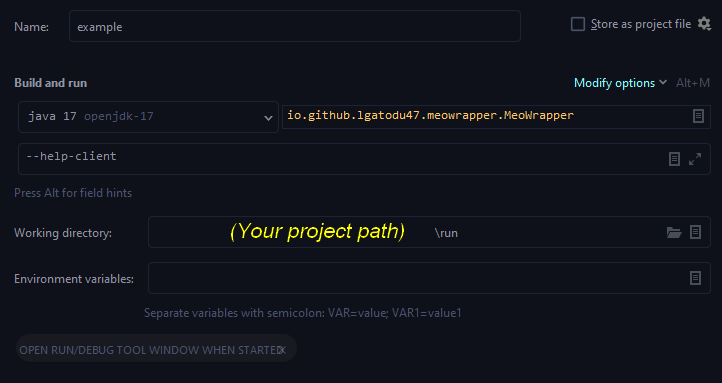
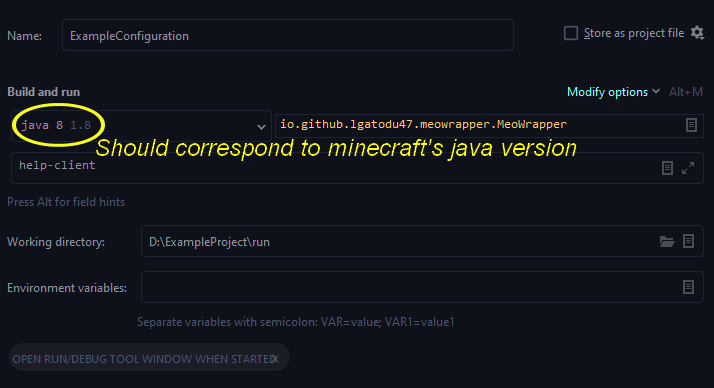
1.2.0: Java 1.8 compatibility - There is now an alert when the program is running on a lower Java version than Minecraft's required. - Now converting specified paths to absolute paths (caused issues).

diff --git a/src/main/java/io/github/lgatodu47/meowrapper/RuntimeEnvironment.java b/src/main/java/io/github/lgatodu47/meowrapper/RuntimeEnvironment.java
@@ -18,7 +18,7 @@ import static io.github.lgatodu47.meowrapper.Logger.*;
  * This class is separated in 3 inner subclasses: Client, Data and Server<br>
  * Each subclass corresponds to an available running environment for Minecraft.
  */
-public abstract sealed class RuntimeEnvironment {
+public abstract class RuntimeEnvironment {
     // Marked them unused so IntelliJ doesn't bother
     @SuppressWarnings("unused")
     public static final RuntimeEnvironment CLIENT = new Client();
@@ -130,6 +130,8 @@ public abstract sealed class RuntimeEnvironment {
 
     /**
      * Concat two arrays of Strings into one.
+     * @param a The first array.
+     * @param b The second array.
      * @return An array of length {@code a.length + b.length} containing all the elements in {@code a} and in {@code b}.
      */
     protected static String[] concat(String[] a, String[] b) {
@@ -177,8 +179,12 @@ public abstract sealed class RuntimeEnvironment {
         public boolean setup(Arguments args, String version) {
             if(!super.setup(args, version)) return false;
 
-            Path assetsDir = FileManager.gatherAssets(args.getPath("assetsDir", mcDir.resolve("assets")), versionJson);
-            args.get("mainClass").or(() -> Optional.ofNullable(versionJson.mainClass)).ifPresent(name -> mainClassName = name);
+            Path assetsDir = FileManager.gatherAssets(args.getPath("assetsDir", mcDir.resolve("assets")).toAbsolutePath(), versionJson);
+            Optional<String> main = args.get("mainClass");
+            if(!main.isPresent()) {
+                main = Optional.ofNullable(versionJson.mainClass);
+            }
+            main.ifPresent(name -> mainClassName = name);
             arguments = concat(args.get("args").map(s -> s.split(" ")).orElse(new String[0]), createClientRunArgs(runDir, assetsDir, versionJson.assets, version, args));
 
             return true;
@@ -196,8 +202,8 @@ public abstract sealed class RuntimeEnvironment {
 
         private static String[] createClientRunArgs(Path runDir, Path assetsDir, String assetIndex, String version, Arguments args) {
             Map<String, String> map = new LinkedHashMap<>();
-            map.put("gameDir", runDir.toString());
-            map.put("assetsDir", assetsDir.toString());
+            map.put("gameDir", runDir.toAbsolutePath().toString());
+            map.put("assetsDir", assetsDir.toAbsolutePath().toString());
             map.put("assetIndex", assetIndex);
             map.put("version", version);
             map.put("accessToken", args.get("accessToken").orElse("0"));
@@ -258,7 +264,7 @@ public abstract sealed class RuntimeEnvironment {
             for(String generator : generators) {
                 map.put(generator, null);
             }
-            map.put("output", outputDir.toString());
+            map.put("output", outputDir.toAbsolutePath().toString());
             args.get("inputDirs").ifPresent(inputDirs -> map.put("input", inputDirs));
             return new Arguments(map).toArgs();
         }
@@ -306,7 +312,7 @@ public abstract sealed class RuntimeEnvironment {
             } else {
                 Version versionJson;
                 Optional<VersionManifest> manifestOpt = FileManager.getVersionManifestData();
-                if(manifestOpt.isEmpty()) {
+                if(!manifestOpt.isPresent()) {
                     return false;
                 } else {
                     try {
@@ -315,6 +321,12 @@ public abstract sealed class RuntimeEnvironment {
                         error("Error when downloading version Json file!");
                         e.printStackTrace();
                         return false;
+                    }
+                }
+
+                if(versionJson.javaVersion != null && javaPath == null) {
+                    if(Utils.getJavaVersion() < versionJson.javaVersion.majorVersion) {
+                        warn("According to the version json, you are not running on a recent-enough java major version. The game may crash! (Current major java version: '%s', required: '%s')", Utils.getJavaVersion(), versionJson.javaVersion.majorVersion);
                     }
                 }
 
@@ -380,7 +392,7 @@ public abstract sealed class RuntimeEnvironment {
     /**
      * An implementation of RuntimeEnvironment for the environments using the client jar.
      */
-    private static non-sealed abstract class ClientJarEnvironment extends RuntimeEnvironment {
+    private static abstract class ClientJarEnvironment extends RuntimeEnvironment {
         protected Path javaPath;
         protected Path mcDir;
         protected Path runDir;
@@ -413,6 +425,12 @@ public abstract sealed class RuntimeEnvironment {
                 error("Error when downloading version Json file!");
                 e.printStackTrace();
                 return false;
+            }
+
+            if(versionJson.javaVersion != null && javaPath == null) {
+                if(Utils.getJavaVersion() < versionJson.javaVersion.majorVersion) {
+                    warn("According to the version json, you are not running on a recent-enough java major version. The game may crash! (Current major java version: '%s', required: '%s')", Utils.getJavaVersion(), versionJson.javaVersion.majorVersion);
+                }
             }
 
             mcJar = FileManager.downloadVersionJar(args.getPath("mcJar", mcDir.resolve("versions/" + version + "/" + version + ".jar")), versionJson, false);

diff --git a/src/main/java/io/github/lgatodu47/meowrapper/MeoWrapper.java b/src/main/java/io/github/lgatodu47/meowrapper/MeoWrapper.java
@@ -14,7 +14,7 @@ public class MeoWrapper {
 
     private void start(Arguments args) {
         Optional<RuntimeEnvironment> optEnvironment = args.get("environment").flatMap(RuntimeEnvironment::byName);
-        if(optEnvironment.isEmpty()) {
+        if(!optEnvironment.isPresent()) {
             error("Missing or invalid 'environment' argument! Type 'help' for more info about the needed arguments");
             return;
         }
@@ -22,7 +22,7 @@ public class MeoWrapper {
         RuntimeEnvironment env = optEnvironment.get();
 
         Optional<String> optVersion = args.get("version");
-        if(optVersion.isEmpty()) {
+        if(!optVersion.isPresent()) {
             error("Missing 'version' argument! Type 'help-<%s>' to have the list of arguments for the current environment", env.getName().toLowerCase(Locale.ROOT));
             return;
         }
@@ -38,16 +38,23 @@ public class MeoWrapper {
     private void launch(RuntimeEnvironment env) {
         List<String> commands = new ArrayList<>();
         // Java executable
-        commands.add(env.getJavaPath().or(ProcessHandle.current().info()::command).orElseGet(() -> {
+        Optional<String> javaPath = env.getJavaPath();
+        if(!javaPath.isPresent()) {
+            javaPath = Utils.getJavaExecutable();
+        }
+        commands.add(javaPath.orElseGet(() -> {
             error("Could not find the current running java executable: setting process executable to 'java'");
             return "java";
         }));
         // Classpath
         debug("Listing classpath...");
-        env.getClassPath().stream().map(File::getAbsolutePath).peek(Logger::debug).reduce((path, path2) -> path + ";" + path2).ifPresentOrElse((path) -> {
+        Optional<String> classpath = env.getClassPath().stream().map(File::getAbsolutePath).peek(Logger::debug).reduce((path, path2) -> path + ";" + path2);
+        if(classpath.isPresent()) {
             commands.add("-cp");
-            commands.add(path);
-        }, () -> error("Classpath is absent!"));
+            commands.add(classpath.get());
+        } else {
+            error("Classpath is absent!");
+        }
         // VM options
         commands.addAll(env.getVMOptions());
         commands.add(env.getMainClassName());
@@ -64,7 +71,8 @@ public class MeoWrapper {
             return;
         }
 
-        debug("Process with pid '%d' started.", process.pid());
+        Utils.getProcessId(process).ifPresent(pid -> debug("Process with pid '%d' started.", pid));
+        nl();
 
         try {
             debug("Process ended with exit code: '%d'", process.waitFor());
@@ -98,8 +106,14 @@ public class MeoWrapper {
     private static boolean logHelp(String firstArg) {
         if(firstArg.contains("help") || "?".equals(firstArg)) {
             if(firstArg.contains("help-")) {
-                String envString = firstArg.substring(firstArg.indexOf('-') + 1);
-                RuntimeEnvironment.byName(envString).ifPresentOrElse(RuntimeEnvironment::logArgumentsList, () -> error("Could not find environment with name '%s'!", envString));
+                String envString = firstArg.substring(firstArg.lastIndexOf('-') + 1);
+                Optional<RuntimeEnvironment> env = RuntimeEnvironment.byName(envString);
+
+                if(env.isPresent()) {
+                    env.get().logArgumentsList();
+                } else {
+                    error("Could not find environment with name '%s'!", envString);
+                }
             } else {
                 info("Welcome in MeoWrapper! To run the program, you will need to specify arguments depending on the running environment you want. There are currently 3 run environments: Client, Server and Data. To learn more about the required arguments of the environment of your choice, use the argument 'help-<env>'!");
             }

diff --git a/src/main/java/io/github/lgatodu47/meowrapper/FileManager.java b/src/main/java/io/github/lgatodu47/meowrapper/FileManager.java
@@ -300,12 +300,12 @@ public class FileManager {
             Files.copy(connection.getInputStream(), target, StandardCopyOption.REPLACE_EXISTING);
 
             if (sha1 != null) {
-                String localSha1 = sha1(new FileInputStream(target.toFile()));
+                String localSha1 = sha1(Files.newInputStream(target));
                 if (sha1.equals(localSha1)) {
-                    debug("Successfully downloaded '%s'!", target.toFile().getName());
+                    debug("Successfully downloaded '%s'!", target.toAbsolutePath().toFile().getName());
                     return;
                 }
-                debug("Failed to download '%s': Invalid checksum:", target.toFile().getName());
+                debug("Failed to download '%s': Invalid checksum:", target.toAbsolutePath().toFile().getName());
                 debug("Expected: %s", sha1);
                 debug("Actual: %s", localSha1);
                 if (!target.toFile().delete()) {
@@ -313,7 +313,7 @@ public class FileManager {
                     return;
                 }
             }
-            debug("Successfully downloaded '%s'! No checksum, assuming valid.", target.toFile().getName());
+            debug("Successfully downloaded '%s'! No checksum, assuming valid.", target.toAbsolutePath().toFile().getName());
         }
     }
 
@@ -331,7 +331,7 @@ public class FileManager {
             Files.createDirectories(destinationDir);
 
             try(Stream<Path> files = Files.list(destinationDir)) {
-                if(Files.notExists(destinationDir) || files.findAny().isEmpty()) {
+                if(Files.notExists(destinationDir) || !files.findAny().isPresent()) {
                     extract(sourceFile, destinationDir, exclusions);
                 }
             }
@@ -361,7 +361,7 @@ public class FileManager {
                 if(entry.isDirectory()) continue;
 
                 for(String exclusionStr : exclusions) {
-                    if(Path.of(entry.getName()).startsWith(exclusionStr)) {
+                    if(Paths.get(entry.getName()).startsWith(exclusionStr)) {
                         continue whileLoop;
                     }
                 }
@@ -435,6 +435,8 @@ public class FileManager {
         return 0;
     }
 
+    private static final String EMPTY_HASH = "0000000000000000000000000000000000000000";
+
     /**
      * Hashes the data of an input stream using SHA-1 algorithm.
      *
@@ -455,6 +457,6 @@ public class FileManager {
             hash.update(buf, 0, count);
         stream.close();
         String hashStr = new BigInteger(1, hash.digest()).toString(16);
-        return ("0".repeat(40) + hashStr).substring(hashStr.length());
+        return (EMPTY_HASH + hashStr).substring(hashStr.length());
     }
 }

diff --git a/src/main/java/io/github/lgatodu47/meowrapper/Utils.java b/src/main/java/io/github/lgatodu47/meowrapper/Utils.java
@@ -1,0 +1,55 @@
+package io.github.lgatodu47.meowrapper;
+
+import java.io.File;
+import java.util.Optional;
+
+import static io.github.lgatodu47.meowrapper.Logger.debug;
+
+class Utils {
+    /**
+     * @return An Optional String representation of the path to the Java executable used to run the current program.
+     */
+    @SuppressWarnings("unchecked")
+    static Optional<String> getJavaExecutable() {
+        try { // For Java 9+
+            Class<?> processHandleClass = Class.forName("java.lang.ProcessHandle");
+            Class<?> infoClass = Class.forName("java.lang.ProcessHandle$Info");
+            Object handle = processHandleClass.getMethod("current").invoke(null);
+            Object info = processHandleClass.getMethod("info").invoke(handle);
+            Optional<String> result = (Optional<String>) infoClass.getMethod("command").invoke(info);
+
+            debug("Got java executable from ProcessHandle");
+            return result;
+        } catch (Throwable ignored) { // For Java 1.8 and below
+            String javaExe = System.getProperty("java.home") + File.separator + "bin" + File.separator + (Os.getCurrent().equals(Os.WINDOWS) ? "java.exe" : "java");
+            return new File(javaExe).isFile() ? Optional.of(javaExe) : Optional.empty();
+        }
+    }
+
+    /**
+     * Gets the process id of the given process.
+     * @param process The given process.
+     * @return An Optional holding the pid. The optional may only present if the current Java version is above 1.8.
+     */
+    static Optional<Long> getProcessId(Process process) {
+        try {
+            return Optional.of((long) Process.class.getMethod("pid").invoke(process));
+        } catch (Throwable ignored) {
+        }
+        return Optional.empty();
+    }
+
+    /**
+     * @return The integer representing the major version of Java the program is currently running on.
+     */
+    static int getJavaVersion() {
+        String version = System.getProperty("java.version");
+        if(version.startsWith("1.")) {
+            version = version.substring(2, 3);
+        } else {
+            int dot = version.indexOf(".");
+            if(dot != -1) { version = version.substring(0, dot); }
+        }
+        return Integer.parseInt(version);
+    }
+}

diff --git a/src/main/java/io/github/lgatodu47/meowrapper/Arguments.java b/src/main/java/io/github/lgatodu47/meowrapper/Arguments.java
@@ -3,6 +3,7 @@ package io.github.lgatodu47.meowrapper;
 import java.nio.file.Path;
 import java.nio.file.Paths;
 import java.util.*;
+import java.util.stream.Collectors;
 
 import static io.github.lgatodu47.meowrapper.Logger.*;
 
@@ -95,7 +96,7 @@ public class Arguments {
      */
     public String[] toNonnullArgs() {
         String[] result = new String[(int) argumentMap.values().stream().filter(Objects::nonNull).count() * 2]; // we only want non-null entries
-        List<Map.Entry<String, String>> list = argumentMap.entrySet().stream().filter(entry -> entry.getValue() != null).toList();
+        List<Map.Entry<String, String>> list = argumentMap.entrySet().stream().filter(entry -> entry.getValue() != null).collect(Collectors.toList());
 
         for(int i = 0; i < list.size(); i++) {
             Map.Entry<String, String> entry = list.get(i);

diff --git a/src/main/java/io/github/lgatodu47/meowrapper/Logger.java b/src/main/java/io/github/lgatodu47/meowrapper/Logger.java
@@ -14,6 +14,7 @@ class Logger {
 
     static final String INFO_COLOR = DISABLE_ANSI ? "" : "\033[0;32m"; // GREEN
     static final String DEBUG_COLOR = DISABLE_ANSI ? "" : "\033[0;36m"; // CYAN
+    static final String WARN_COLOR = DISABLE_ANSI ? "" : "\033[0;33m"; // YELLOW
     static final String ERROR_COLOR = DISABLE_ANSI ? "" : "\033[0;31m"; // RED
     static final String RESET = DISABLE_ANSI ? "" : "\033[0m";
 
@@ -23,6 +24,10 @@ class Logger {
 
     static void debug(String msg, Object... args) {
         if(DEBUG) log(DEBUG_COLOR, "DEBUG", msg, args);
+    }
+
+    static void warn(String msg, Object... args) {
+        log(WARN_COLOR, "WARN", msg, args);
     }
 
     static void error(String msg, Object... args) {

diff --git a/src/main/java/io/github/lgatodu47/meowrapper/json/Version.java b/src/main/java/io/github/lgatodu47/meowrapper/json/Version.java
@@ -23,6 +23,7 @@ public class Version {
     public String assets;
     public Map<String, DownloadInfo> downloads;
     public String id;
+    public JavaVersion javaVersion;
     public Library[] libraries;
     public String mainClass;
 
@@ -107,6 +108,10 @@ public class Version {
 
     public static class ExtractInfo {
         public List<String> exclude;
+    }
+
+    public static class JavaVersion {
+        public int majorVersion;
     }
 
     public static Version read(File file) throws IOException {

diff --git a/README.MD b/README.MD
@@ -31,7 +31,7 @@ should look like this:
     }
 
     dependencies {
-        runtimeOnly 'io.github.lgatodu47:meowrapper:1.1.0'
+        runtimeOnly 'io.github.lgatodu47:meowrapper:1.2.0'
     }
 
 We first declare the maven repository where the artifacts are located and then add the dependency
@@ -40,12 +40,13 @@ in which case you would declare it as an `implementation`). Just refresh your gr
 the dependency should be there.
 
 You will now need to create a run configuration to launch Minecraft. First assert that **you are
-running on Java 17** (However your project can be built on Java 1.8). Next set the main class to 
-be MeoWrapper's main class (currently `io.github.lgatodu47.meowrapper.MeoWrapper`). Finally, you 
-should specify the run directory (Many files and folders will be created, running in the project
-directory is not a good idea) and the run arguments. If you never use the program you should start
-it with `help-<env>` to have more information about the arguments needed to run Minecraft on the
-specified environment. You can always add argument properties or environment variables if you wish.
+running on the same or higher Java version as Minecraft** (Java 17 for mc 1.18+, Java 16 for mc
+1.17, Java 1.8 for older versions). Next set the main class to be MeoWrapper's main class (currently `io.github.lgatodu47.meowrapper.MeoWrapper`).
+Finally, you should specify the run directory (Many files and folders will be created, running in
+the project directory is not a good idea) and the run arguments. If you never used the program before 
+you should start it with `help-<env>` to have more information about the arguments needed to run 
+Minecraft on the specified environment. You can always add argument properties or environment 
+variables if you wish.
 
 Here is what an example configuration may look like on IntelliJ IDEA:
 ![A run configuration on IntelliJ IDEA](/images/intellij-run-configuration.png)
@@ -56,10 +57,7 @@ Once your run configuration is done, you should be able to run the game.
 
 ### Using MeoWrapper in Command Line
 
-You will first need to install **JDK 17** if you haven't installed it yet as MeoWrapper is compiled
-in Java 17. There are many JDKs out there such as [OpenJDK](https://jdk.java.net/17/) or [Eclipse Temurin](https://adoptium.net/temurin/archive).
-
-Next go on the [releases page](https://github.com/LGatodu47/MeoWrapper/releases) and download the
+Go on the [releases page](https://github.com/LGatodu47/MeoWrapper/releases) and download the
 latest release of MeoWrapper. Put the downloaded jar in an empty folder and open the command line
 in the run folder. You can then run the jar with argument `help-<env>` to have more info about an
 environment.  
@@ -69,6 +67,9 @@ haven't enabled ANSI. To enable ANSI, run the command prompt as administrator an
 `reg add HKEY_CURRENT_USER\Console /v VirtualTerminalLevel /t REG_DWORD /d 0x00000001 /f`  
 If you want for some reason to disable ANSI, you can paste this line:  
 `reg add HKEY_CURRENT_USER\Console /v VirtualTerminalLevel /t REG_DWORD /d 0x00000000 /f`
+
+One more thing, to play minecraft 1.17+ you will need to install a newer version of Java, preferably **JDK 17**.
+You can find many JDKs on websites such as [OpenJDK](https://jdk.java.net/17/) or [Eclipse Temurin](https://adoptium.net/temurin/archive).
 
 ****
 
